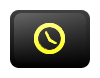
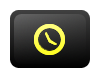
This mergin branches business is tough.

Changed region(s): [[0.33, 0.2821, 0.66, 0.7179], [0.15, 0.1538, 0.6, 0.2051]]

diff --git a/src/org/androdevs/emouto/gui/GUI.java b/src/org/androdevs/emouto/gui/GUI.java
@@ -63,7 +63,7 @@ public class GUI implements IOnMenuItemClickListener
 	public void setupGUI(EmoutoGame game, Scene scene, Camera mCamera, Engine engine)
 	{
 		fonts = new HashMap<String, Font>();
-		this.game = game;
+		GUI.game = game;
 		mainscene = scene;
 		
 		// TODO magic numbers
@@ -90,7 +90,7 @@ public class GUI implements IOnMenuItemClickListener
 		textBlock.attachChild(new Sprite(0, 0, TextureFactory.loadRegion("speech_bubble")));
 
 		String[] options = {"pat on head", "smile", "give thumbs up"};
-		String[] files = {"button_heart", "button_bubble", "button_food", "button_alarm"};
+		String[] files = {"button_heart", "button_talk", "button_food", "button_alarm"};
 		ICommand[] commands = {
 			new OpenMenu(new TextMenu(options,mCamera,this)),
 			new ChangeBlockVisibility(textBlock)

diff --git a/src/org/androdevs/emouto/utility/TextureFactory.java b/src/org/androdevs/emouto/utility/TextureFactory.java
@@ -20,6 +20,7 @@ public class TextureFactory {
 			AssetTextureSource source = new AssetTextureSource(GUI.game, basePath+"/"+file);  
 			Texture texture = new Texture(MathUtils.nextPowerOfTwo(source.getWidth()), 
 				MathUtils.nextPowerOfTwo(source.getHeight()), TextureOptions.NEAREST_PREMULTIPLYALPHA);
+
 			TextureRegion region = TextureRegionFactory.createFromAsset(texture, GUI.game, basePath+"/"+file, offsetX, offsetY);
 			game.loadTex(texture);
 			return region;
